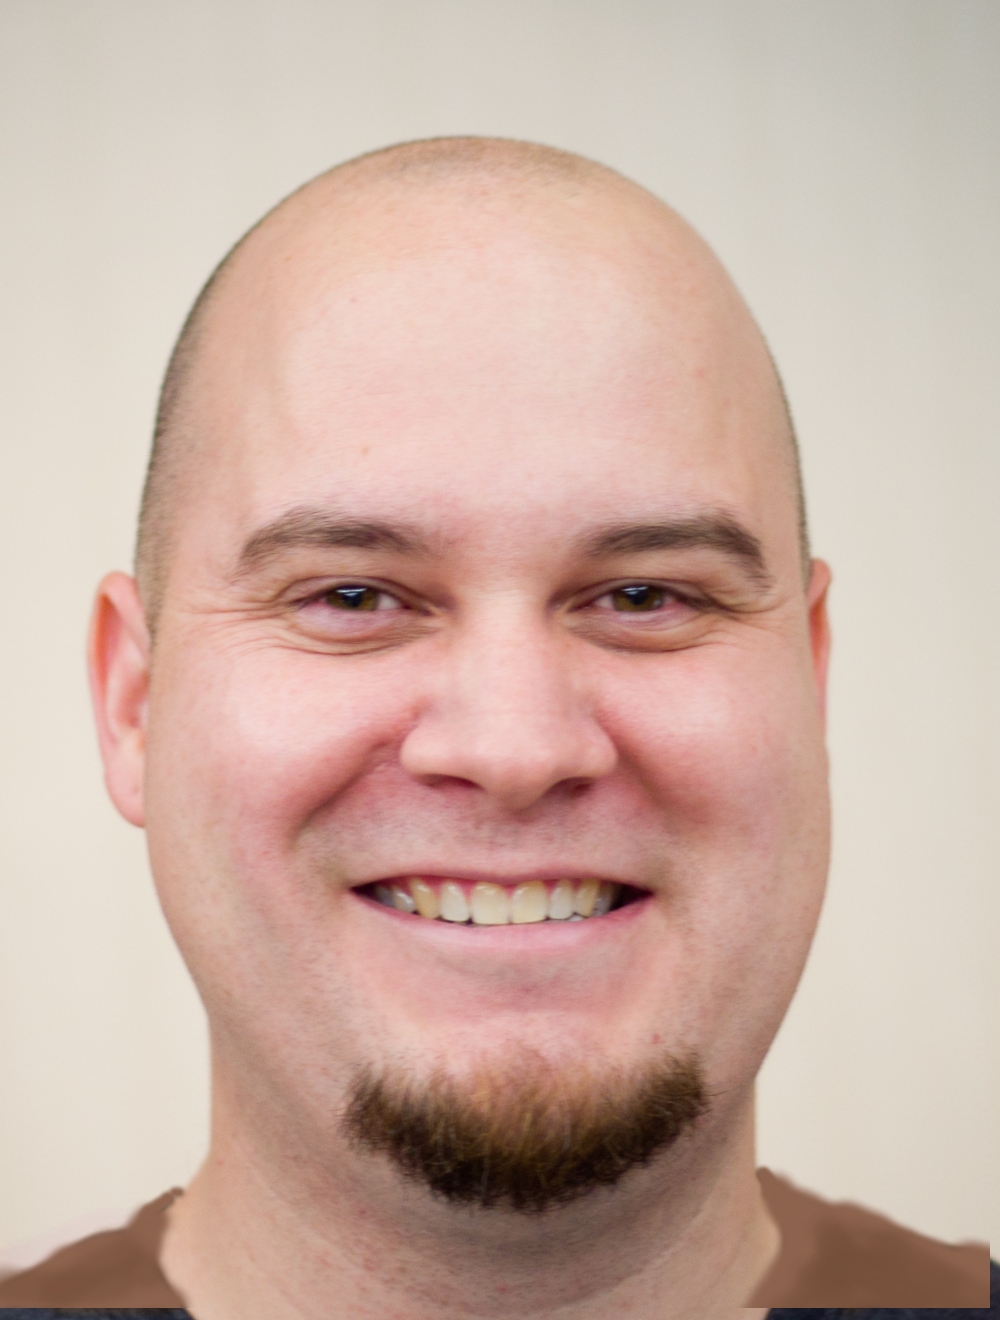
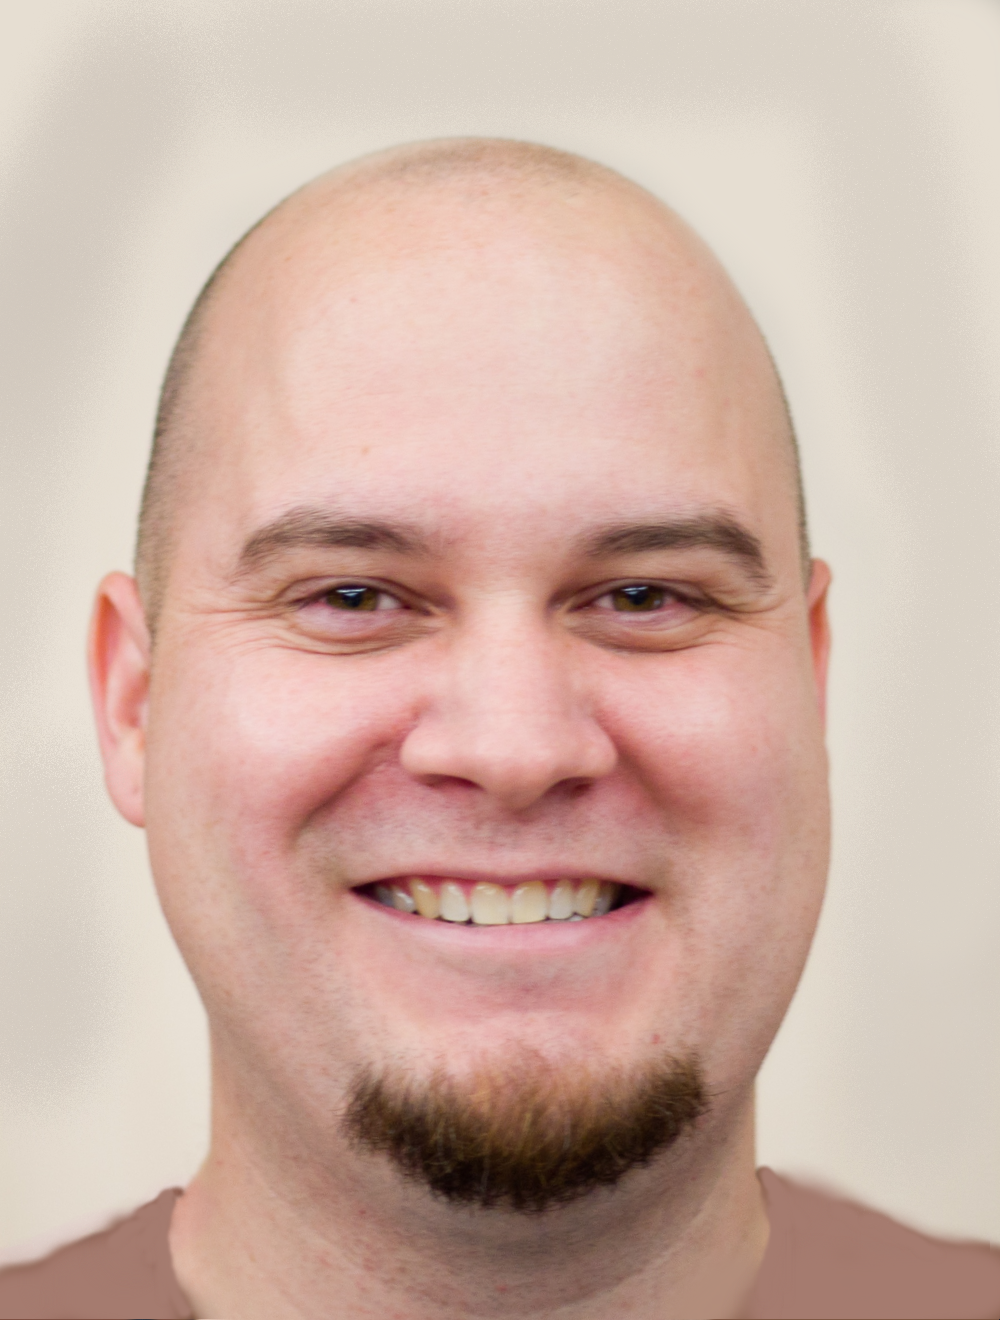
Add many more examples

diff --git a/Code/styletransfer.m b/Code/styletransfer.m
@@ -2,8 +2,8 @@ levels = 18;
 compute_masks = 1;
 addpath('./grabcut-master');
 addpath('./grabcut-master/bin_graphcuts');
-img_orig = imread('Inputs/face16.png');
-img_style = imread('Inputs/final16_19.png');
+img_orig = imread('Inputs/face56.png');
+img_style = imread('Inputs/final56_52.png');
 img_orig = imresize(img_orig, [300 230]);
 img_orig_old = img_orig;
 img_style = imresize(img_style, [300 230]);
@@ -15,7 +15,7 @@ img_style = min(img_style, 255);
 img_orig = img_orig + uint8(rand(size(img_orig))*5);
 img_orig = min(img_orig, 255);
 
-figure, imshow(imresize(imread('Inputs/face19.png'), [300 230]));
+figure, imshow(imresize(imread('Inputs/face52.png'), [300 230]));
 figure, imshow(img_orig);
 figure, imshow(img_style);
 
@@ -104,6 +104,6 @@ figure, imshow(final_img);
 
 % High boost filtering
 gauss_fin_img = imfilter(final_img, fspecial('gaussian', 3, 3));
-final_img = final_img + (final_img-gauss_fin_img)*1;
+final_img = final_img + (final_img-gauss_fin_img)*0.7;
 
 figure, imshow(final_img);

diff --git a/Code/Face_Morph/aasthana_cvpr2013_code_version_2.0/align.m b/Code/Face_Morph/aasthana_cvpr2013_code_version_2.0/align.m
@@ -1,8 +1,8 @@
-p1 = detect('../../Inputs/face16.png', 0); % Content image
-p2 = detect('../../Inputs/face24.png', 0); % Style image
+p1 = detect('../../Inputs/face56.png', 0); % Content image
+p2 = detect('../../Inputs/face55.png', 0); % Style image
 
-img1 = imresize(imread('../../Inputs/face16.png'), [300 230]);
-img2 = imresize(imread('../../Inputs/face24.png'), [300 230]);
+img1 = imresize(imread('../../Inputs/face56.png'), [300 230]);
+img2 = imresize(imread('../../Inputs/face55.png'), [300 230]);
 
 figure, imshow(img1);
 figure, imshow(img2);

diff --git a/Code/grabcut-master/select_back.m b/Code/grabcut-master/select_back.m
@@ -26,7 +26,7 @@ no_nodes = im_h*im_w;
 %imshow(im_in);
 %im_h, im_w
 %rect = getrect;
-rect = [7, 8, im_w-10, im_h];
+rect = [1, 1, im_w-5, im_h];
 rect = int32(rect);
 
 % Set labels
